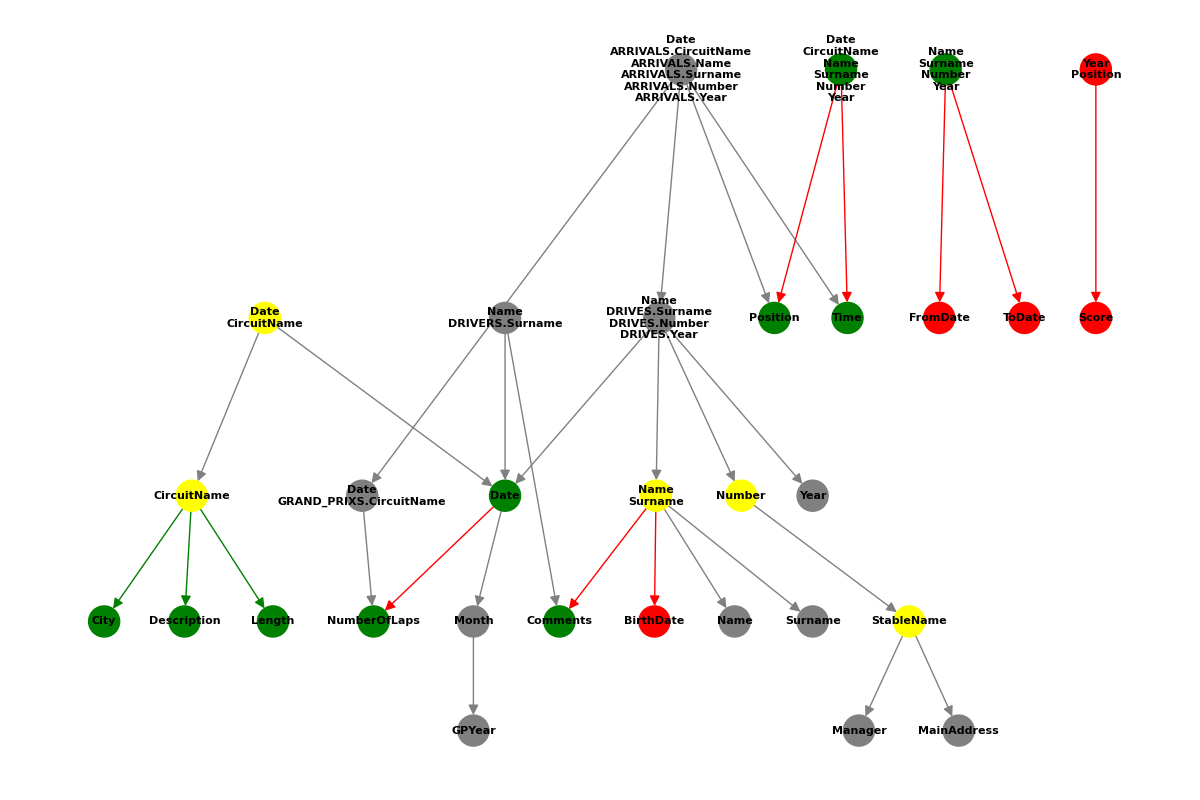
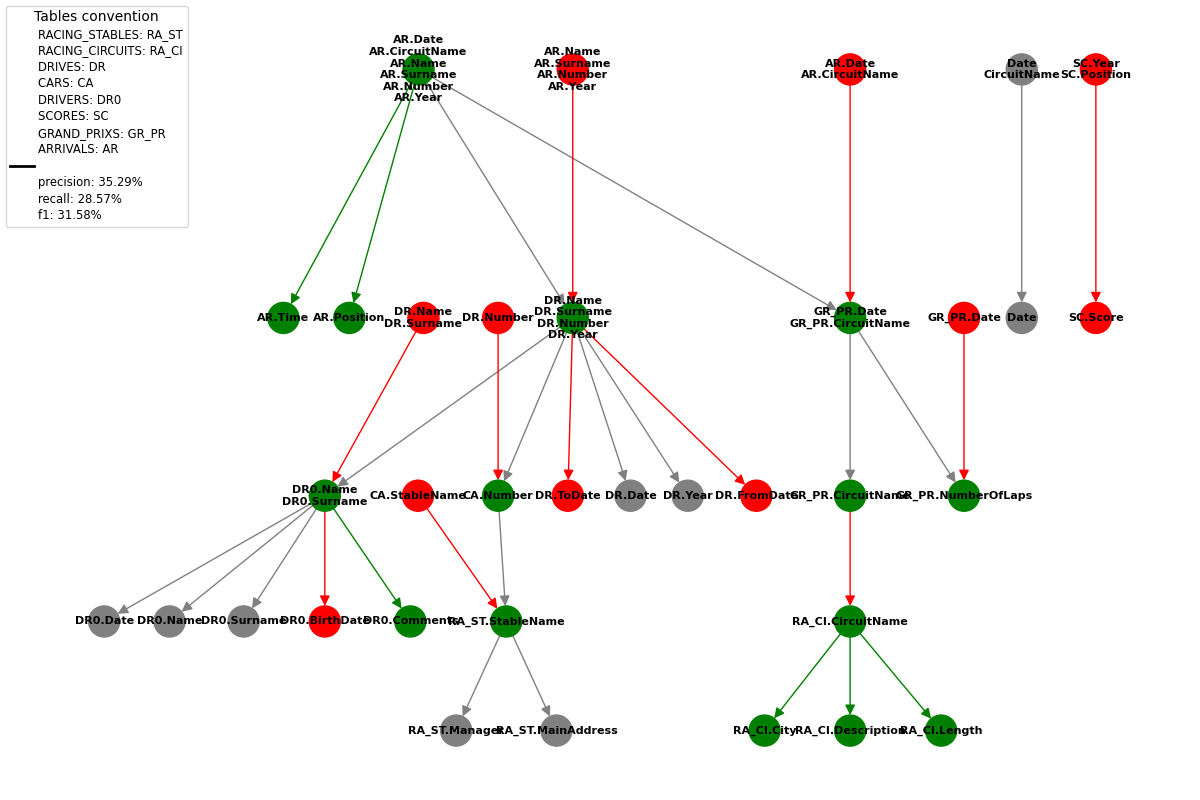
fix: removed wrong fp classifications, add precision, recall, f1 to graph output. Add ex 2.4 gt, start ex 2.1 sql text

diff --git a/src/main/python/pipeline/second-step.py b/src/main/python/pipeline/second-step.py
@@ -3,8 +3,9 @@ from pathlib import Path
 
 import matplotlib.pyplot as plt
 import networkx as nx
+import matplotlib.lines as mlines
 
-from ssutils import preprocess_dependencies_attributes, is_a_valid_role_dependency, store_image
+from ssutils import preprocess_dependencies_attributes, is_a_valid_role_dependency, is_a_valid_dependency, store_image
 from utils import load_yaml, load_ground_truth_exercise, load_output_exercise_and_name
 
 input_config = load_yaml(f'{Path().absolute()}/pipeline/second-step-config.yml')
@@ -27,9 +28,9 @@ tables = []
 set_gt = set(
     frozenset((key, value)
               for key, value in d.items() if is_a_valid_role_dependency(key))
-    for d in dep_gt)
+    for d in dep_gt if is_a_valid_dependency(d))
 set_output = set(
-    frozenset((key, value)
+    frozenset((key, value.replace(' ', ''))
               for key, value in d.items())
     for d in dep_output)
 
@@ -87,6 +88,16 @@ fp_list.sort(key=lambda dependency: (dependency['from'], dependency['to']))
 tp_count = len(tp)
 fn_count = len(fn)
 fp_count = len(fp)
+
+precision = tp_count / (tp_count + fp_count)
+recall = tp_count / (tp_count + fn_count)
+f1 = 2*((precision*recall)/(precision+recall))
+
+metrics = {
+    'precision': round(precision * 100, 2),
+    'recall': round(recall * 100, 2),
+    'f1': round(f1 * 100, 2)
+}
 
 # print(f"TP: {tp_count}\nFN: {fn_count}\nFP: {fp_count}")
 
@@ -157,6 +168,9 @@ nx.draw_networkx_edge_labels(G, pos, edge_labels=edge_labels, font_color='red')
 if input_config['visualization']['table_names']:
     legend_items = [plt.Line2D([0], [0], color='w', label=f'{full_name}: {short_name}')
                     for full_name, short_name in short_names.items()]
+    legend_items.append(mlines.Line2D([], [], color='black', linestyle='-', linewidth=2))
+    legend_items.extend([plt.Line2D([0], [0], color='w', label=f'{label}: {str(value)}%')
+     for label, value in metrics.items()])
     plt.legend(handles=legend_items, title="Tables convention", fontsize='small', title_fontsize='medium',
                labelspacing=0.3, handletextpad=0.4, loc='upper left')
 

diff --git a/src/main/python/pipeline/ssutils.py b/src/main/python/pipeline/ssutils.py
@@ -29,6 +29,13 @@ def is_a_valid_role_dependency(dependency_key):
     return dependency_key in ['from', 'to']
 
 
+# Filter dict of ground truth if created
+def is_a_valid_dependency(dependency_dict):
+    if 'refinements' in dependency_dict:
+        return dependency_dict['refinements'] != 'created'
+    return True
+
+
 # Used to store graph image
 def store_image(plt, name, img_format):
     plt.savefig(f'{outputs}{Path(name).stem}.{img_format}', format=img_format)
